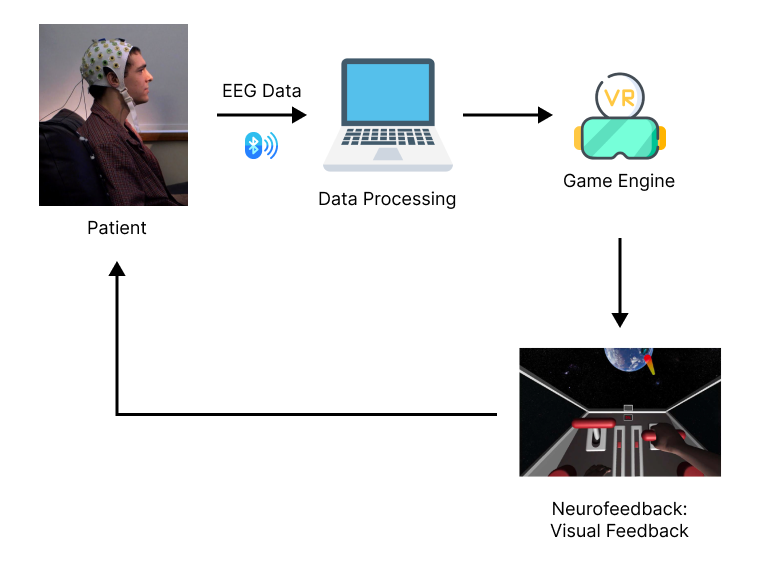
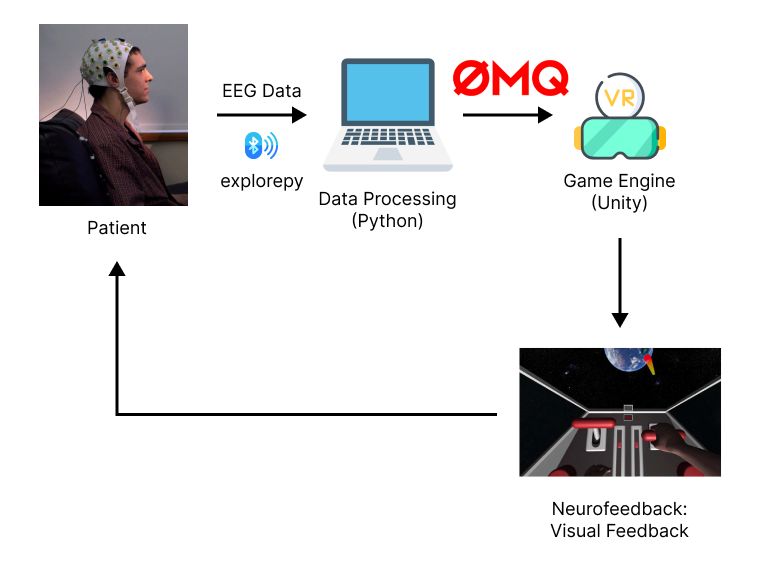
readme update

diff --git a/README.md b/README.md
@@ -1,15 +1,41 @@
 # neurofeedback_vr
 
+The goal of this project is to develop a virtual reality (VR) neurofeedback rehabilitation system for Parkinson'n patients in a form of a game. All the components of the system are represented in the figure below.
+
+![image](files/../figures/tasks.png)
+
+
+This README file includes information regarding running the project. You can find more information regarding the implementation in the [Wiki](https://github.com/marteczkah/neurofeedback_vr/wiki/Brain-Computer-Interface-with-Virtual-Reality-Neurofeedback).
+
 ## Requirements 
 - explorepy
 - simplejson
 - pyzmq
 - numpy
+- pandas
+- mne
+- sklearn
+- scikit-learn
+- matplotlib
 
 ## How to run?
-1. Open the unity_project folder as a project in Unity. 
-2. Run the python_scripts/main.py file. Make sure you change the device name to your device name.
-3. Run the SampleScence in Unity. 
 
-The data from the device should be sent 10 times. After the data is sent, make sure to interrupt the execution of the Python file. 
+This project has two main components - Python and Unity - that are split into two folders:
+* python_scripts - includes all the Python files,
+* neurofeedback_vr - includes all the files from the Unity part of the project.
+
+### python_scripts
+
+#### Data Communication
+
+The data can be acquired and communicated between Python and Unity using `send_exg_data.py` file. Change the the device name on line 38 to acquired the data from your EEG device and send it to Unity. The EEG data can be read in C# in a JSON format and deserialize into a list of lists. 
+
+Another file responsible for communicating the data is `send_random_msgs.py`. By running the file you can communicate randomly generated states (left, right, rest) with Unity for the control of the gameplay. 
+
+#### Classification
+
+`classification.py` is a class that can be used for a classification of MNE raw data. A sample of how the class could be used is in the `classification_sample.ipynb`. `classification_random.py` is used to generate random states that are the same as the outputs of the intended classification task for this project. 
+
+### neurofeedback_vr
+
 
